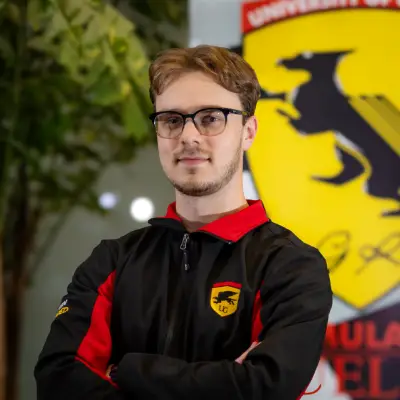
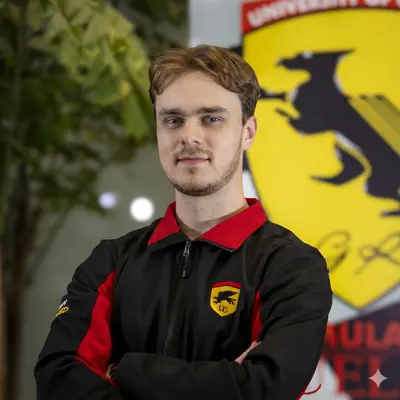
Fix low quality images

diff --git a/src/views/HomeView.vue b/src/views/HomeView.vue
@@ -97,9 +97,11 @@ const time_till_soonest = computed(() => {
                     <div class="about_us">
                         <h1>About Us</h1>
                         <p>
-                            Gryphon Racing is an engineering team that build race cars and led by students from University of Guelph is where students can gain real-world engineering experience building a performance vehicle for Formula Student competitions. This
-                            gives students the opportunity to explore and pursue their passion for knowledge through firsthand experiences as team members are required to design, buld, test, and troubleshooting. <br><br>
-                            Founded in 2002, the Gryphon Racing has built 19 cars and competed in multiple events from Formula Michigan to Toronto shout out. The team has evolved from building small displacement, gas-powered vehicles to electrical vehicles with advanced aerodynamics and custom systems. 
+                            Gryphon Racing is an engineering team that build race cars and led by students from University of Guelph is where students can gain real-world engineering experience
+                            building a performance vehicle for Formula Student competitions. This gives students the opportunity to explore and pursue their passion for knowledge through firsthand
+                            experiences as team members are required to design, buld, test, and troubleshooting. <br /><br />
+                            Founded in 2002, the Gryphon Racing has built 19 cars and competed in multiple events from Formula Michigan to Toronto shout out. The team has evolved from building small
+                            displacement, gas-powered vehicles to electrical vehicles with advanced aerodynamics and custom systems.
                         </p>
                     </div>
                     <div class="about_us_img">
@@ -111,19 +113,18 @@ const time_till_soonest = computed(() => {
                         <h1>Recent Cars</h1>
                         <div class="car_listings">
                             <div>
-                                <h2>GRC22   </h2>
+                                <h2>GRC22</h2>
                                 <p>
-                                    A new generation of Gryphon Racing design. This car marks the ending of an almost 20-year history of GSX-R powertrains. The team at Gryphon Racing has spent countless
-                                    hours developing Gryphon Racing's first ever: electric car, full aerodynamics kit, custom gearbox + differential, and custom Vehicle Control Unit.
+                                    A new generation of Gryphon Racing design. This car marks the ending of an almost 20-year history of GSX-R powertrains. The team at Gryphon Racing has spent
+                                    countless hours developing Gryphon Racing's first ever: electric car, full aerodynamics kit, custom gearbox + differential, and custom Vehicle Control Unit.
                                 </p>
                                 <img class="car_portrait" src="/current_cars/grc22_our_cars.webp" width="1000" height="667" alt="GRC22 Car Portrait" />
                             </div>
                             <div>
                                 <h2>GRC19</h2>
                                 <p>
-                                    Gryphon Racing's legacy. For the first time since the team's founding, the 600cc GSX-R engine was mounted transversely in the car and the iconic
-                                    shaft drive was replaced with a chain and custom-built limited slip differential. This allowed the team to switch to 10” rims and lower the car's overall center of
-                                    gravity.
+                                    Gryphon Racing's legacy. For the first time since the team's founding, the 600cc GSX-R engine was mounted transversely in the car and the iconic shaft drive was
+                                    replaced with a chain and custom-built limited slip differential. This allowed the team to switch to 10” rims and lower the car's overall center of gravity.
                                 </p>
                                 <img class="car_portrait" src="/current_cars/grc19.webp" width="1000" height="667" alt="GRC19 Car Portrait" />
                             </div>
@@ -142,7 +143,7 @@ const time_till_soonest = computed(() => {
     height: 100%;
 
     /* The image used */
-    background-image: url("/media/grc22_teampicture (1).webp");   /* reminder: convert this image to webp */
+    background-image: url("/media/grc22_teampicture.webp"); /* reminder: convert this image to webp */
 
     /* Set a specific height */
     min-height: 100vh;
@@ -267,9 +268,7 @@ const time_till_soonest = computed(() => {
         justify-content: center;
         border-radius: 20px;
     }
-    
 }
-
 
 .car_listings > div > h2 {
     margin-bottom: 0;
@@ -361,14 +360,13 @@ const time_till_soonest = computed(() => {
     justify-content: space-evenly;
 }
 
-.banner { 
-    padding-top: 4em; /* So we are not hidden under navbar on some screens */ 
-    width: 5%; 
-    min-width: 100px;  
-    
+.banner {
+    padding-top: 4em; /* So we are not hidden under navbar on some screens */
+    width: 5%;
+    min-width: 100px;
+
     position: fixed;
     bottom: 25px;
     left: 25px;
-} 
-
+}
 </style>

diff --git a/src/views/CarsView.vue b/src/views/CarsView.vue
@@ -298,7 +298,6 @@ function getCarImagePath(car: any) {
     }
     return "";
 }
-
 </script>
 
 <template>
@@ -306,35 +305,20 @@ function getCarImagePath(car: any) {
         <!-- Horizontal Timeline -->
         <div class="timeline-container">
             <h3 class="timeline-title">Gryphon Racing History</h3>
-            
+
             <div class="timeline-wrapper">
                 <!-- Timeline -->
-                <div 
-                    ref="timelineRef" 
-                    class="timeline"
-                >
-
+                <div ref="timelineRef" class="timeline">
                     <!-- Timeline Nodes with Car Images -->
-                    <div 
-                        v-for="car in ourCars" 
-                        :key="car.id"
-                        @click="updateSelectedCar(car.id)"
-                        class="timeline-node"
-                        :class="{ 'selected': selectedCar?.id === car.id }"
-                    >
+                    <div v-for="car in ourCars" :key="car.id" @click="updateSelectedCar(car.id)" class="timeline-node" :class="{ selected: selectedCar?.id === car.id }">
                         <!-- Car Image -->
                         <div class="car-image-container">
-                            <img 
-                                v-if="car.images && car.images.length > 0"
-                                :src="getCarImagePath(car)"
-                                :alt="`GRC ${car.id}`"
-                                class="car-image"
-                            />
+                            <img v-if="car.images && car.images.length > 0" :src="getCarImagePath(car)" :alt="`GRC ${car.id}`" class="car-image" />
                             <div v-else class="car-placeholder">
                                 <span>GRC {{ car.id }}</span>
                             </div>
                         </div>
-                        
+
                         <!-- Car Label -->
                         <div class="node-label">
                             <span class="car-name">GRC {{ car.id }}</span>
@@ -477,8 +461,9 @@ function getCarImagePath(car: any) {
 
 .timeline-node.selected .car-image-container {
     border: 4px solid var(--gryphon-yellow);
-    box-shadow: 0 0 25px rgba(220, 20, 60, 0.6),
-                0 0 40px rgba(255, 215, 0, 0.4);
+    box-shadow:
+        0 0 25px rgba(220, 20, 60, 0.6),
+        0 0 40px rgba(255, 215, 0, 0.4);
 }
 
 .timeline-node:hover .car-image-container {

diff --git a/src/views/TeamView.vue b/src/views/TeamView.vue
@@ -14,10 +14,9 @@ import NavFooter from "@/components/NavFooter.vue";
                 </div>
             </div>
         </div>
-        
+
         <div class="floating_scroll_body">
             <div class="team">
-                
                 <h2>Team Captains</h2>
                 <hr />
                 <div class="profiles_list">
@@ -85,18 +84,18 @@ import NavFooter from "@/components/NavFooter.vue";
     justify-content: space-evenly;
     align-items: center;
     max-width: 1200px;
-    
-    padding-top: 4em; /* So we are not hidden under navbar on some screens */ 
-    width: 20%; 
-    min-width: 300px;  
+
+    padding-top: 4em; /* So we are not hidden under navbar on some screens */
+    width: 20%;
+    min-width: 300px;
     position: fixed;
     bottom: 25px;
     left: 25px;
 }
 
 .title {
-    display: flex;            /* lay the H1s out in a row */
-    align-items: center;      /* vertically center them */
+    display: flex; /* lay the H1s out in a row */
+    align-items: center; /* vertically center them */
 }
 
 h1 {
@@ -152,7 +151,7 @@ a {
     .landing_page_image {
         background-image: linear-gradient(#000 0%, #0003 33%), url("/media/team_photo.webp");
     }
-    
+
     .title {
         white-space: normal;
         flex-direction: column;
@@ -186,5 +185,4 @@ a {
     background-color: rgba(255, 255, 255, 0);
     position: absolute;
 }
-
 </style>

diff --git a/src/components/NavBar.vue b/src/components/NavBar.vue
@@ -67,7 +67,7 @@ window.addEventListener("scroll", () => {
     margin-right: 20px; /* Add some spacing from the right edge */
 }
 
-.navbar > * {   
+.navbar > * {
     padding: 0 20px;
     display: flex;
     align-items: center;
@@ -91,7 +91,7 @@ window.addEventListener("scroll", () => {
     right: 0;
     bottom: 0;
     display: none;
-    background-color: var(--gryphon-light-black-transparent); 
+    background-color: var(--gryphon-light-black-transparent);
     backdrop-filter: blur(25px);
     z-index: 1000;
 
@@ -122,7 +122,7 @@ window.addEventListener("scroll", () => {
 
 .close-button {
     position: absolute;
-    top: 1.0rem;
+    top: 1rem;
     right: 1.5rem;
     color: var(--gryphon-white);
     font-size: 2.5rem;
@@ -152,7 +152,7 @@ window.addEventListener("scroll", () => {
 }
 
 @media (hover: hover) and (pointer: fine) {
-    .highlight a:not(.banner):hover {           
+    .highlight a:not(.banner):hover {
         /* Dont highlight the banner cause it looks weird */
         background-color: var(--gryphon-yellow);
         color: var(--gryphon-light-black);
@@ -168,7 +168,7 @@ window.addEventListener("scroll", () => {
 
 @media screen and (max-width: 800px) {
     .nav-links {
-    /* .navbar a:not(:nth-child(1)) { */
+        /* .navbar a:not(:nth-child(1)) { */
         display: none;
     }
 

diff --git a/src/views/SponsorView.vue b/src/views/SponsorView.vue
@@ -103,7 +103,7 @@
                     <img src="/sponsors/shakespeare_arms.webp" height="800" width="800" alt="Shakespeare Arms" />
                 </a>
                 <a href="https://www.melitron.com/">
-                    <img src="/sponsors/melitron.webp" height="400" width="400" alt="Melitron" />  
+                    <img src="/sponsors/melitron.webp" height="400" width="400" alt="Melitron" />
                 </a>
                 <!-- <a href="https://compositescanada.com/">
                     <img src="/sponsors/composites_canada.webp" width="400" height="106" alt="Composites Canada" />

diff --git a/src/components/NavFooter.vue b/src/components/NavFooter.vue
@@ -5,7 +5,7 @@
             50 Stone Road East, Guelph, N1G2W1<br />
             (519) 824-4120 ext 52698<br />
             <a href="mailto:ugracing@uoguelph.ca" class="contact_email">ugracing@uoguelph.ca</a>
-            <a href="https://www.linkedin.com/in/khoa-tran-8035aa2ba/" class="credit"><br>Maintained by Khoa Tran</a>
+            <a href="https://www.linkedin.com/in/khoa-tran-8035aa2ba/" class="credit"><br />Maintained by Khoa Tran</a>
         </div>
 
         <img class="banner" src="/media/banner.svg" alt="Gryphon Racing Banner" />

diff --git a/src/views/InfoView.vue b/src/views/InfoView.vue
@@ -34,10 +34,10 @@ onMounted(() => {
                     (519) 824-4120 ext 52698
                 </p>
             </div>
-            
+
             <div id="map" class="map"></div>
         </div>
-        
+
         <div class="links-wrapper">
             <h2>Club Documents</h2>
             <a href="/media/club_docs/Constitution.pdf" target="_blank">Constitution</a>
